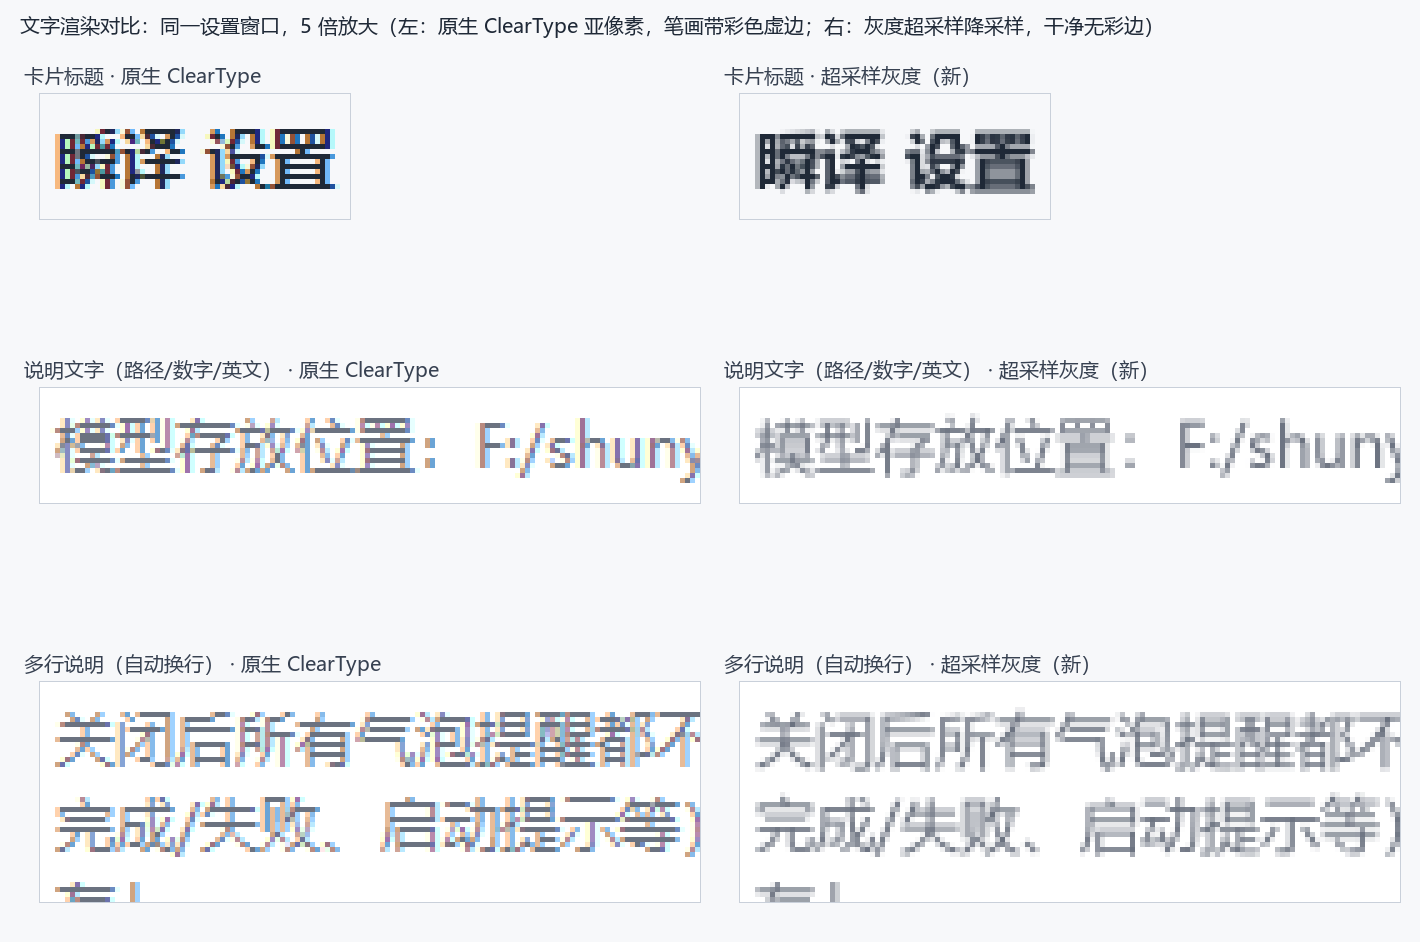
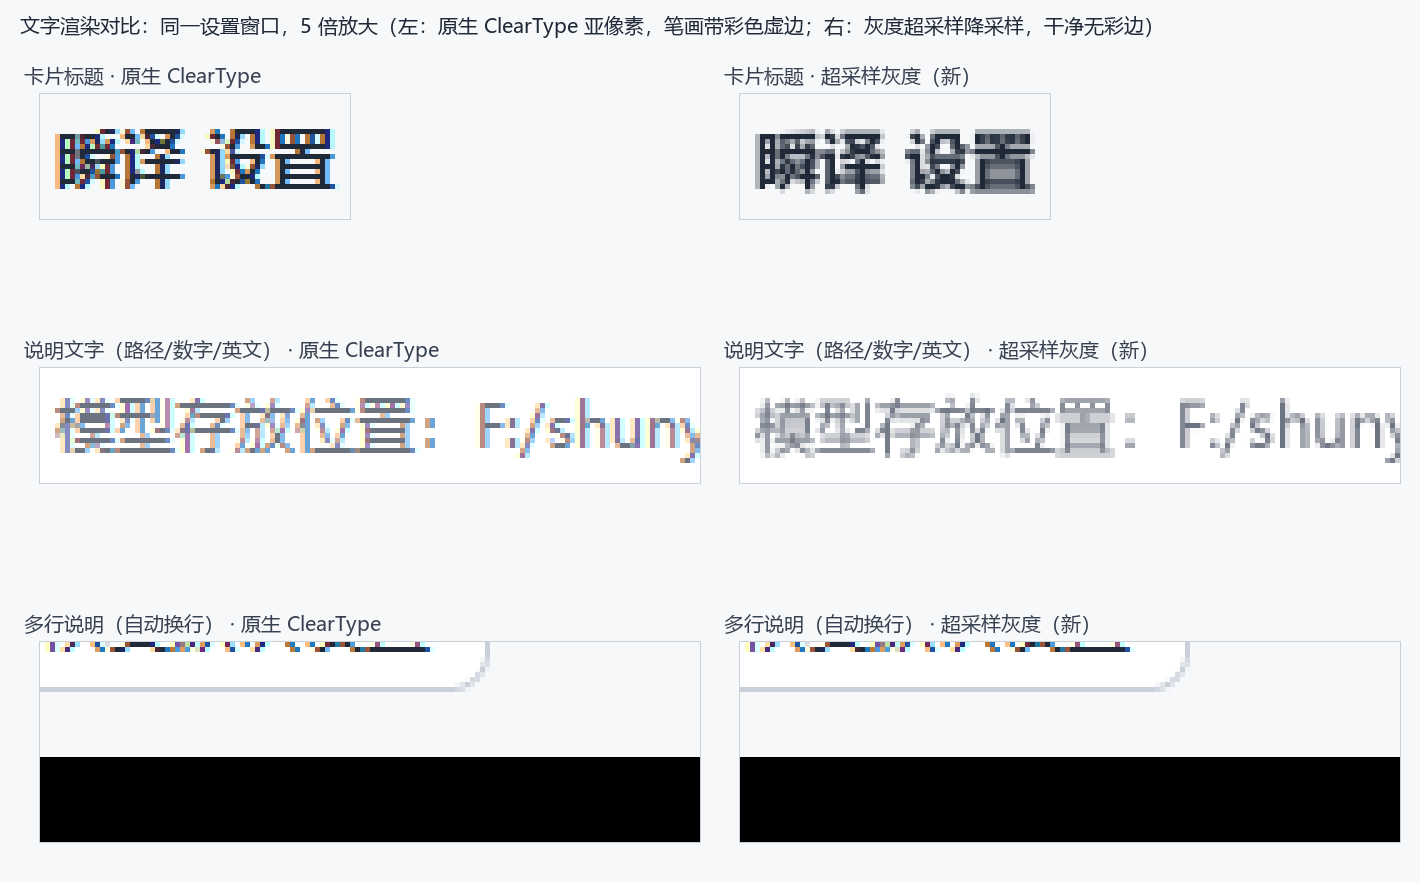
删掉「通知提醒」「内存优化」下的说明文字，并修快捷键提示的换行异常
1) 删除两处说明文字（settings_window.py）：
   - 「通知提醒」开关下方的长段说明
   - 「内存优化」开关下方的 _note_box 提示框
   两处卡片现在只剩标题 + 开关一行；同步改掉效果图脚本里对已删文案的定位

2) 修「快捷键」提示换行时标点落到行首的问题（ui_kit.wrap_lines）：
   原来断行是纯像素贪心，标点与普通字一视同仁，导致「（」被挤到下一行开头、
   上一行右侧空一大块。现在加中文避头点：标点放不下时允许该行多出一个标点的
   宽度把它拉上来；万一拉不上来（该行已很满）就把行尾的词让给下一行，
   直到断点不再落在标点前（连续标点也不会出现「）」孤零零起头）。
   行数与高度不变，宽度只多 5px（该 Label 为 fill="x"，不影响布局）

验证：test_text_crisp 扩到 29/29（新增避头点 3 项）；其余相关回归全绿；
exe 重出并冒烟通过

diff --git a/tools/diag_hotkey_real.py b/tools/diag_hotkey_real.py
@@ -1,0 +1,96 @@
+# -*- coding: utf-8 -*-
+"""真实现场②：把快捷键提示的 4 种动态文案逐个放到真实设置窗口里截图，
+看换行到底哪里不对（以及与原生 Tk 的差异）。"""
+import os
+import sys
+import time
+
+sys.path.insert(0, r"F:\shunyi")
+
+from PIL import Image, ImageDraw, ImageFont, ImageGrab   # noqa: E402
+
+from app import config                                   # noqa: E402
+import app.settings_window as sw                         # noqa: E402
+from app import ui_kit as ui                             # noqa: E402
+from app.service import HotkeyService                    # noqa: E402
+
+TEXTS = [
+    ("默认", "要求：至少包含一个 Ctrl / Alt / Shift，再加一个主键（例如 Alt+J）。", "#6B7280"),
+    ("录制中", "现在请直接按下你想用的组合键（例如按住 Alt 再按 J）。按 Esc 取消。", "#C2410C"),
+    ("等主键", "继续按一个主键（比如 J、K、F9）…", "#C2410C"),
+    ("不合法", "这个组合不行：必须至少包含一个 Ctrl / Alt / Shift"
+               "（不能只用单个键，否则会干扰你正常打字）。", "#DC2626"),
+]
+
+sw.dialogs.ask = lambda *a, **k: True
+sw.dialogs.tell = lambda *a, **k: None
+original = dict(config.load())
+service = HotkeyService(notify=lambda t, m: None)
+settings = sw.SettingsWindow(service)
+
+BOX = {}
+
+
+def prepare():
+    root = settings.root
+    root.attributes("-topmost", True)
+    root.lift()
+    root.update_idletasks()
+    settings._scroll_canvas.yview_moveto(1.0)
+    root.update_idletasks()
+
+
+settings.open()
+time.sleep(2.5)
+settings.run_in_ui(prepare)
+time.sleep(0.8)
+_ox, _oy = settings.run_in_ui(lambda: (settings.root.winfo_rootx(),
+                                       settings.root.winfo_rooty()))
+_w, _h = settings.run_in_ui(lambda: (settings.root.winfo_width(),
+                                     settings.root.winfo_height()))
+ImageGrab.grab(bbox=(_ox, _oy, _ox + _w, _oy + _h)).save(
+    r"F:\shunyi\docs\_diag\设置窗口-底部.png")
+print("已保存 docs/_diag/设置窗口-底部.png", (_w, _h))
+
+tiles = []
+for tag, text, fg in TEXTS:
+    settings.run_in_ui(
+        lambda t=text, c=fg: settings._hotkey_hint.configure(text=t, fg=c))
+    time.sleep(0.45)
+
+    def grab_box():
+        h = settings._hotkey_hint
+        return (h.winfo_rootx(), h.winfo_rooty(), h.winfo_width(), h.winfo_height(),
+                h.winfo_reqwidth(), h.winfo_reqheight(),
+                (h._photo.width(), h._photo.height()) if h._photo else None)
+    x, y, w, h, rw, rh, ph = settings.run_in_ui(grab_box)
+    shot = ImageGrab.grab(bbox=(x - 4, y - 6, x + 500, y + h + 6))
+    tiles.append((f"{tag}  控件 {w}×{h} / req {rw}×{rh} / 图片 {ph}", shot))
+    print(f"[{tag}] 控件 {w}×{h}  req {rw}×{rh}  图片 {ph}")
+
+settings._queue.put(("call", lambda: settings.root.attributes("-topmost", False)))
+settings.shutdown()
+time.sleep(0.4)
+config.update(**{k: original[k] for k in original})
+
+Z = 3
+pad, label_h = 18, 30
+w0 = max(t.width for _n, t in tiles) * Z + pad * 2
+h0 = sum(t.height for _n, t in tiles) * Z + pad * (len(tiles) + 1) + label_h * len(tiles)
+canvas = Image.new("RGB", (w0, h0), "#EDEFF2")
+draw = ImageDraw.Draw(canvas)
+try:
+    font = ImageFont.truetype(r"C:\Windows\Fonts\msyh.ttc", 18, index=1)
+except Exception:  # noqa: BLE001
+    font = ImageFont.load_default()
+y = pad
+os.makedirs(r"F:\shunyi\docs\_diag", exist_ok=True)
+for name, t in tiles:
+    draw.text((pad, y), name, fill="#374151", font=font)
+    y += label_h
+    big = t.resize((t.width * Z, t.height * Z), Image.NEAREST)
+    canvas.paste(big, (pad, y))
+    draw.rectangle([pad - 1, y - 1, pad + big.width, y + big.height], outline="#C9D0DA")
+    y += big.height + pad
+canvas.save(r"F:\shunyi\docs\_diag\快捷键提示-四种文案.png")
+print("已保存 docs/_diag/快捷键提示-四种文案.png", canvas.size)

diff --git a/app/ui_kit.py b/app/ui_kit.py
@@ -549,27 +549,70 @@ def _split_tokens(text: str) -> list:
     return out
 
 
+# 中文排版禁则（避头点）：这些字符不该出现在**行首**。
+# 为什么需要（2026-10-01 报障"快捷键提示换行异常"）：断行是按像素贪心的，
+# 遇到「……Ctrl / Alt / Shift（不能只用单个键……」时，"（"正好被挤到下一行开头 ——
+# 上一行末尾空出一大块、下一行以一个孤零零的括号起头，看着就是"换行不对"。
+# 修法：让这类字符跟着上一行走（该行允许多出一个小标点的宽度，
+# slack 远小于 wraplength，不会真的溢出卡片）。
+_NO_LINE_START = set(
+    "，。、；：？！）〕〉》」』】〗”’…—～·％‰℃"
+    "（〔〈《「『【〖“‘"
+    ",.;:?!)]}>"
+)
+
+
+def _punct_slack(limit_px: int) -> int:
+    """避头点允许超出的宽度：约一个中文标点（远小于 wraplength，不会溢出容器）。"""
+    return max(12, int(limit_px * 0.05))
+
+
 def wrap_lines(text: str, limit_px: int, measure) -> list:
-    """按像素宽度贪心断行（CJK 逐字、拉丁按词）。
+    """按像素宽度贪心断行（CJK 逐字、拉丁按词），并做中文避头点处理。
 
     `measure(s) -> 像素宽` 用**与 Tk 相同的度量函数**（TextLabel 传 `font measure`），
     这样断行点、行数与原生 Label 完全一致 —— 否则换行不同会让图片高度对不上。
+
+    避头点分两步（标点绝不能独自出现在行首）：
+      1. 标点放不下时，允许这一行多出一个小标点的宽度，把它拉上来；
+      2. 万一拉不上来（这一行已经很满），把行尾的**词**让给下一行，直到断点不再
+         落在标点前 —— 否则会出现「）」或「。）」孤零零起头的情况。
     """
     lines: list = []
     for para in str(text).split("\n"):
         if limit_px <= 0:
             lines.append(para)
             continue
-        cur = ""
-        for token in _split_tokens(para):
-            if not cur:
-                cur = token
-            elif measure(cur + token) <= limit_px:
-                cur += token
-            else:
-                lines.append(cur.rstrip())
-                cur = token.lstrip() if token.strip() else ""
-        lines.append(cur.rstrip())
+        tokens = _split_tokens(para)
+        total = len(tokens)
+        start = 0
+        while start < total:
+            cur = ""
+            idx = start
+            while idx < total:
+                tok = tokens[idx]
+                if not cur:
+                    if tok.strip():          # 换行处的空格不留在行首
+                        cur = tok
+                    idx += 1
+                    continue
+                cand = cur + tok
+                if measure(cand) <= limit_px:
+                    cur, idx = cand, idx + 1
+                    continue
+                if tok[:1] in _NO_LINE_START and \
+                        measure(cand) <= limit_px + _punct_slack(limit_px):
+                    cur, idx = cand, idx + 1     # 避头点：多塞一个标点也认了
+                    continue
+                break
+            while idx < total and tokens[idx][:1] in _NO_LINE_START and idx - start > 1:
+                back = tokens[idx - 1]
+                if not (cur.endswith(back) and len(cur) > len(back)):
+                    break
+                cur = cur[: -len(back)]          # 把行尾的词让给下一行
+                idx -= 1
+            lines.append(cur.rstrip())
+            start = idx if idx > start else start + 1
     return lines or [""]
 
 

diff --git a/tools/test_text_crisp.py b/tools/test_text_crisp.py
@@ -243,6 +243,33 @@ def main():
     check("原生 ClearType 确实带彩边（对照组有效）", ca > 0.01, f"{ca * 100:.2f}%")
     check("超采样渲染的彩边显著更少（不到原生的 1/3）", cb < ca / 3,
           f"原生 {ca * 100:.2f}% → 超采样 {cb * 100:.2f}%")
+
+    print("\n=== H. 换行禁则（标点不能落在行首）===")
+    cases = [
+        ("这个组合不行：必须至少包含一个 Ctrl / Alt / Shift"
+         "（不能只用单个键，否则会干扰你正常打字）。", 277),
+        ("这是一段较长的说明文字，用来验证换行是否正常（含括号、逗号，以及句号。）"
+         "后面还接着一些内容。", 200),
+        ("模型下载完成/失败、启动提示等），只记日志。默认开启；改动立即生效，"
+         "不需要点「保存」。", 220),
+    ]
+    bad = []
+    for text, limit in cases:
+        lines = ui.wrap_lines(text, limit, ruler)
+        for line in lines[1:]:                   # 第 2 行起不能以标点开头
+            if line[:1] in ui._NO_LINE_START:
+                bad.append(f"「{line[:10]}…」以「{line[:1]}」开头")
+    check(f"{len(cases)} 段文本换行后，第 2 行起都没有以标点开头", not bad,
+          "；".join(bad) or "无")
+
+    lines = ui.wrap_lines("必须至少包含一个 Ctrl / Alt / Shift，再加一个主键。", 190, ruler)
+    split_words = [w for w in ("Ctrl", "Alt", "Shift")
+                   if not any(w in ln for ln in lines)]
+    check("英文单词不会被拆到两行（Ctrl / Alt / Shift 各自完整）",
+          not split_words, str(split_words) or "无")
+
+    lines = ui.wrap_lines("快捷键要求：至少包含一个 Ctrl / Alt / Shift。", 10 ** 6, ruler)
+    check("放得下时不换行（只有 1 行）", len(lines) == 1, f"{len(lines)} 行")
     root.destroy()
 
     passed = sum(1 for _n, ok, _d in RESULTS if ok)

diff --git a/app/settings_window.py b/app/settings_window.py
@@ -805,12 +805,6 @@ class SettingsWindow:
                  font=UI_FONT).pack(side="left")
         ui.ToggleSwitch(line, self._notify_enabled_var, command=self._on_notify_change,
                         page_bg=COLOR_CARD).pack(side="right")
-        ui.TextLabel(card, text="关闭后所有气泡提醒都不再弹出（翻译完成、取词失败、快捷键冲突、"
-                            "模型下载完成/失败、启动提示等），只记日志。默认开启；改动立即生效，"
-                            "不需要点「保存」。",
-                 bg=COLOR_CARD, fg=COLOR_SUBTEXT, font="ShunYiSmall",
-                 anchor="w", justify="left", wraplength=ui.S(430)
-                 ).pack(fill="x", pady=(4, 0))
 
     def _on_notify_change(self) -> None:
         """用户切换「通知提醒」：**立即写盘生效**，不等「保存」。
@@ -884,12 +878,6 @@ class SettingsWindow:
                  font=UI_FONT).pack(side="left")
         ui.ToggleSwitch(line, self._idle_unload_var, command=self._on_memory_change,
                         page_bg=COLOR_CARD).pack(side="right")
-
-        self._note_box(card,
-                       "开启：挂机 15 分钟没翻译就把模型从内存里放掉，可省约 97~238 MB；"
-                       "代价是释放后下一次翻译多花约 0.15 秒（实测），基本察觉不到。\n"
-                       "关闭：模型一直留在内存里，翻译始终最快（适合经常随手翻译的人）。",
-                       "plain")
 
     def _build_hotkey_section(self, parent) -> None:
         card = self._card(parent, "快捷键", icon="hotkey")

diff --git a/tools/make_text_showcase.py b/tools/make_text_showcase.py
@@ -57,7 +57,7 @@ def shot_window(disable_text_render: bool):
             if text.startswith("瞬译 设置") and "header" not in marks:
                 marks["header"] = (w.winfo_rootx(), w.winfo_rooty(),
                                    w.winfo_width(), w.winfo_height())
-            elif "关闭后所有气泡提醒" in text and "note" not in marks:
+            elif "当前档位实测响应" in text and "note" not in marks:
                 marks["note"] = (w.winfo_rootx(), w.winfo_rooty(),
                                  w.winfo_width(), min(w.winfo_height(), 44))
             elif "模型存放位置" in text and "path" not in marks:
